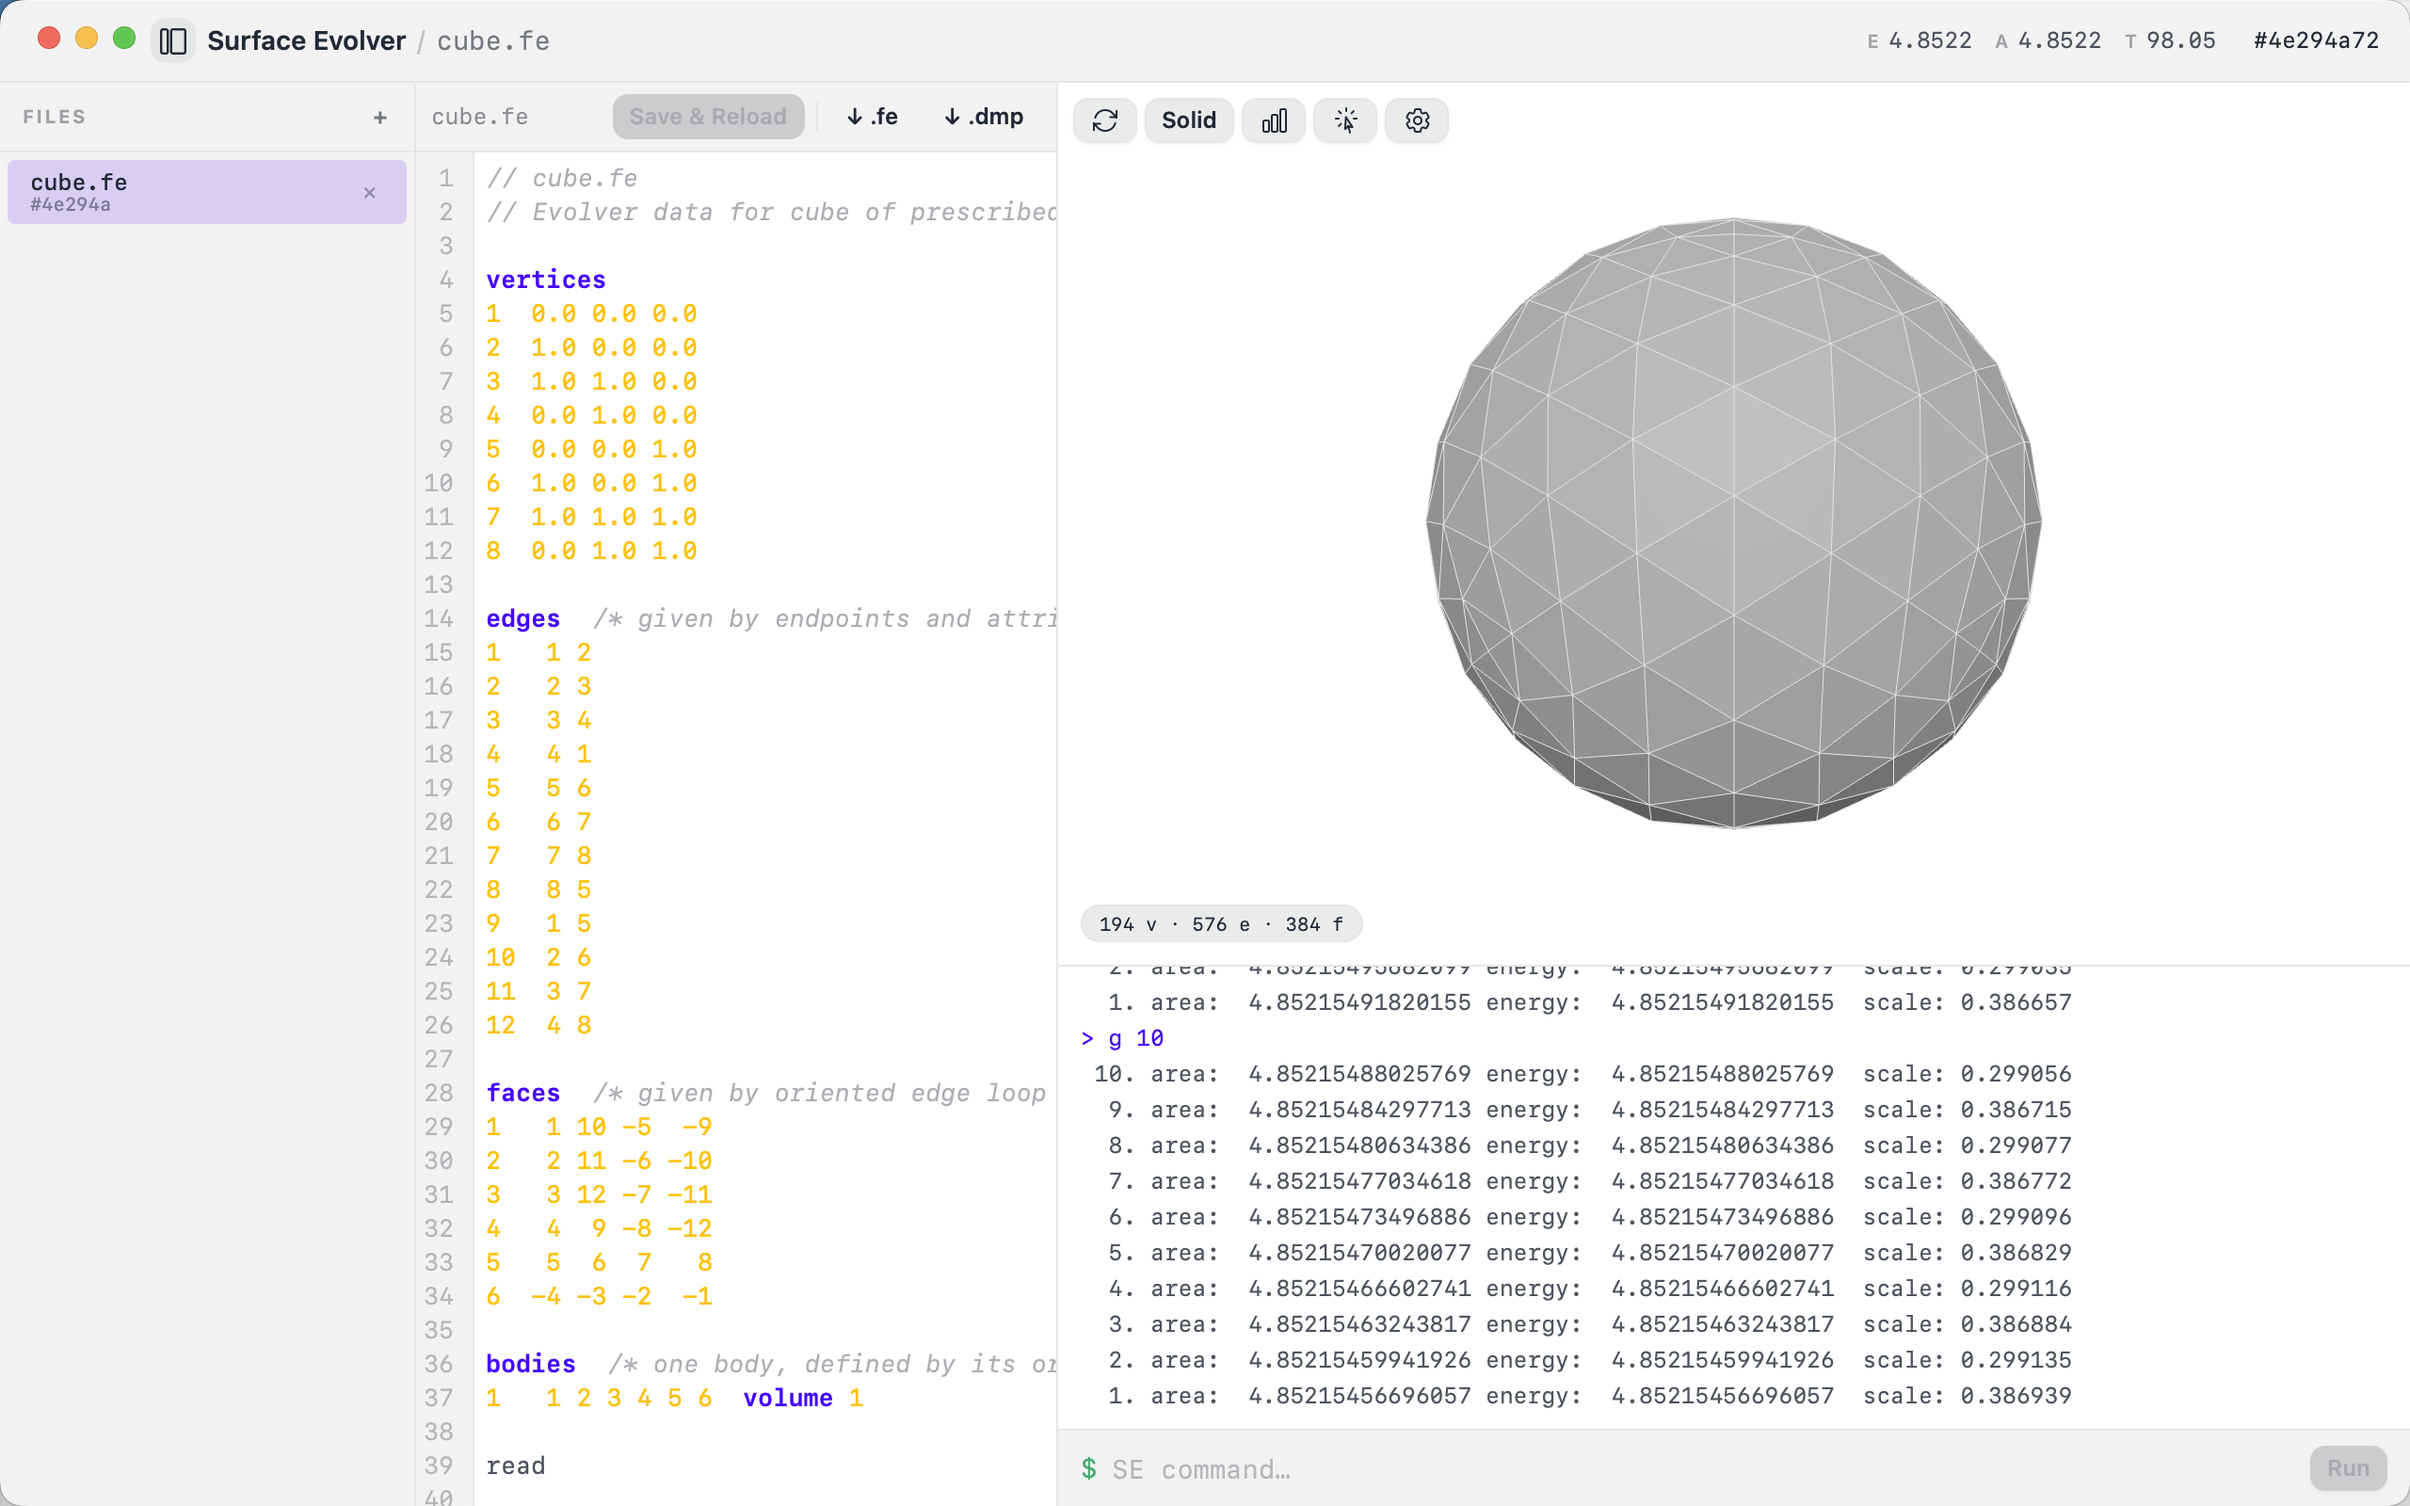
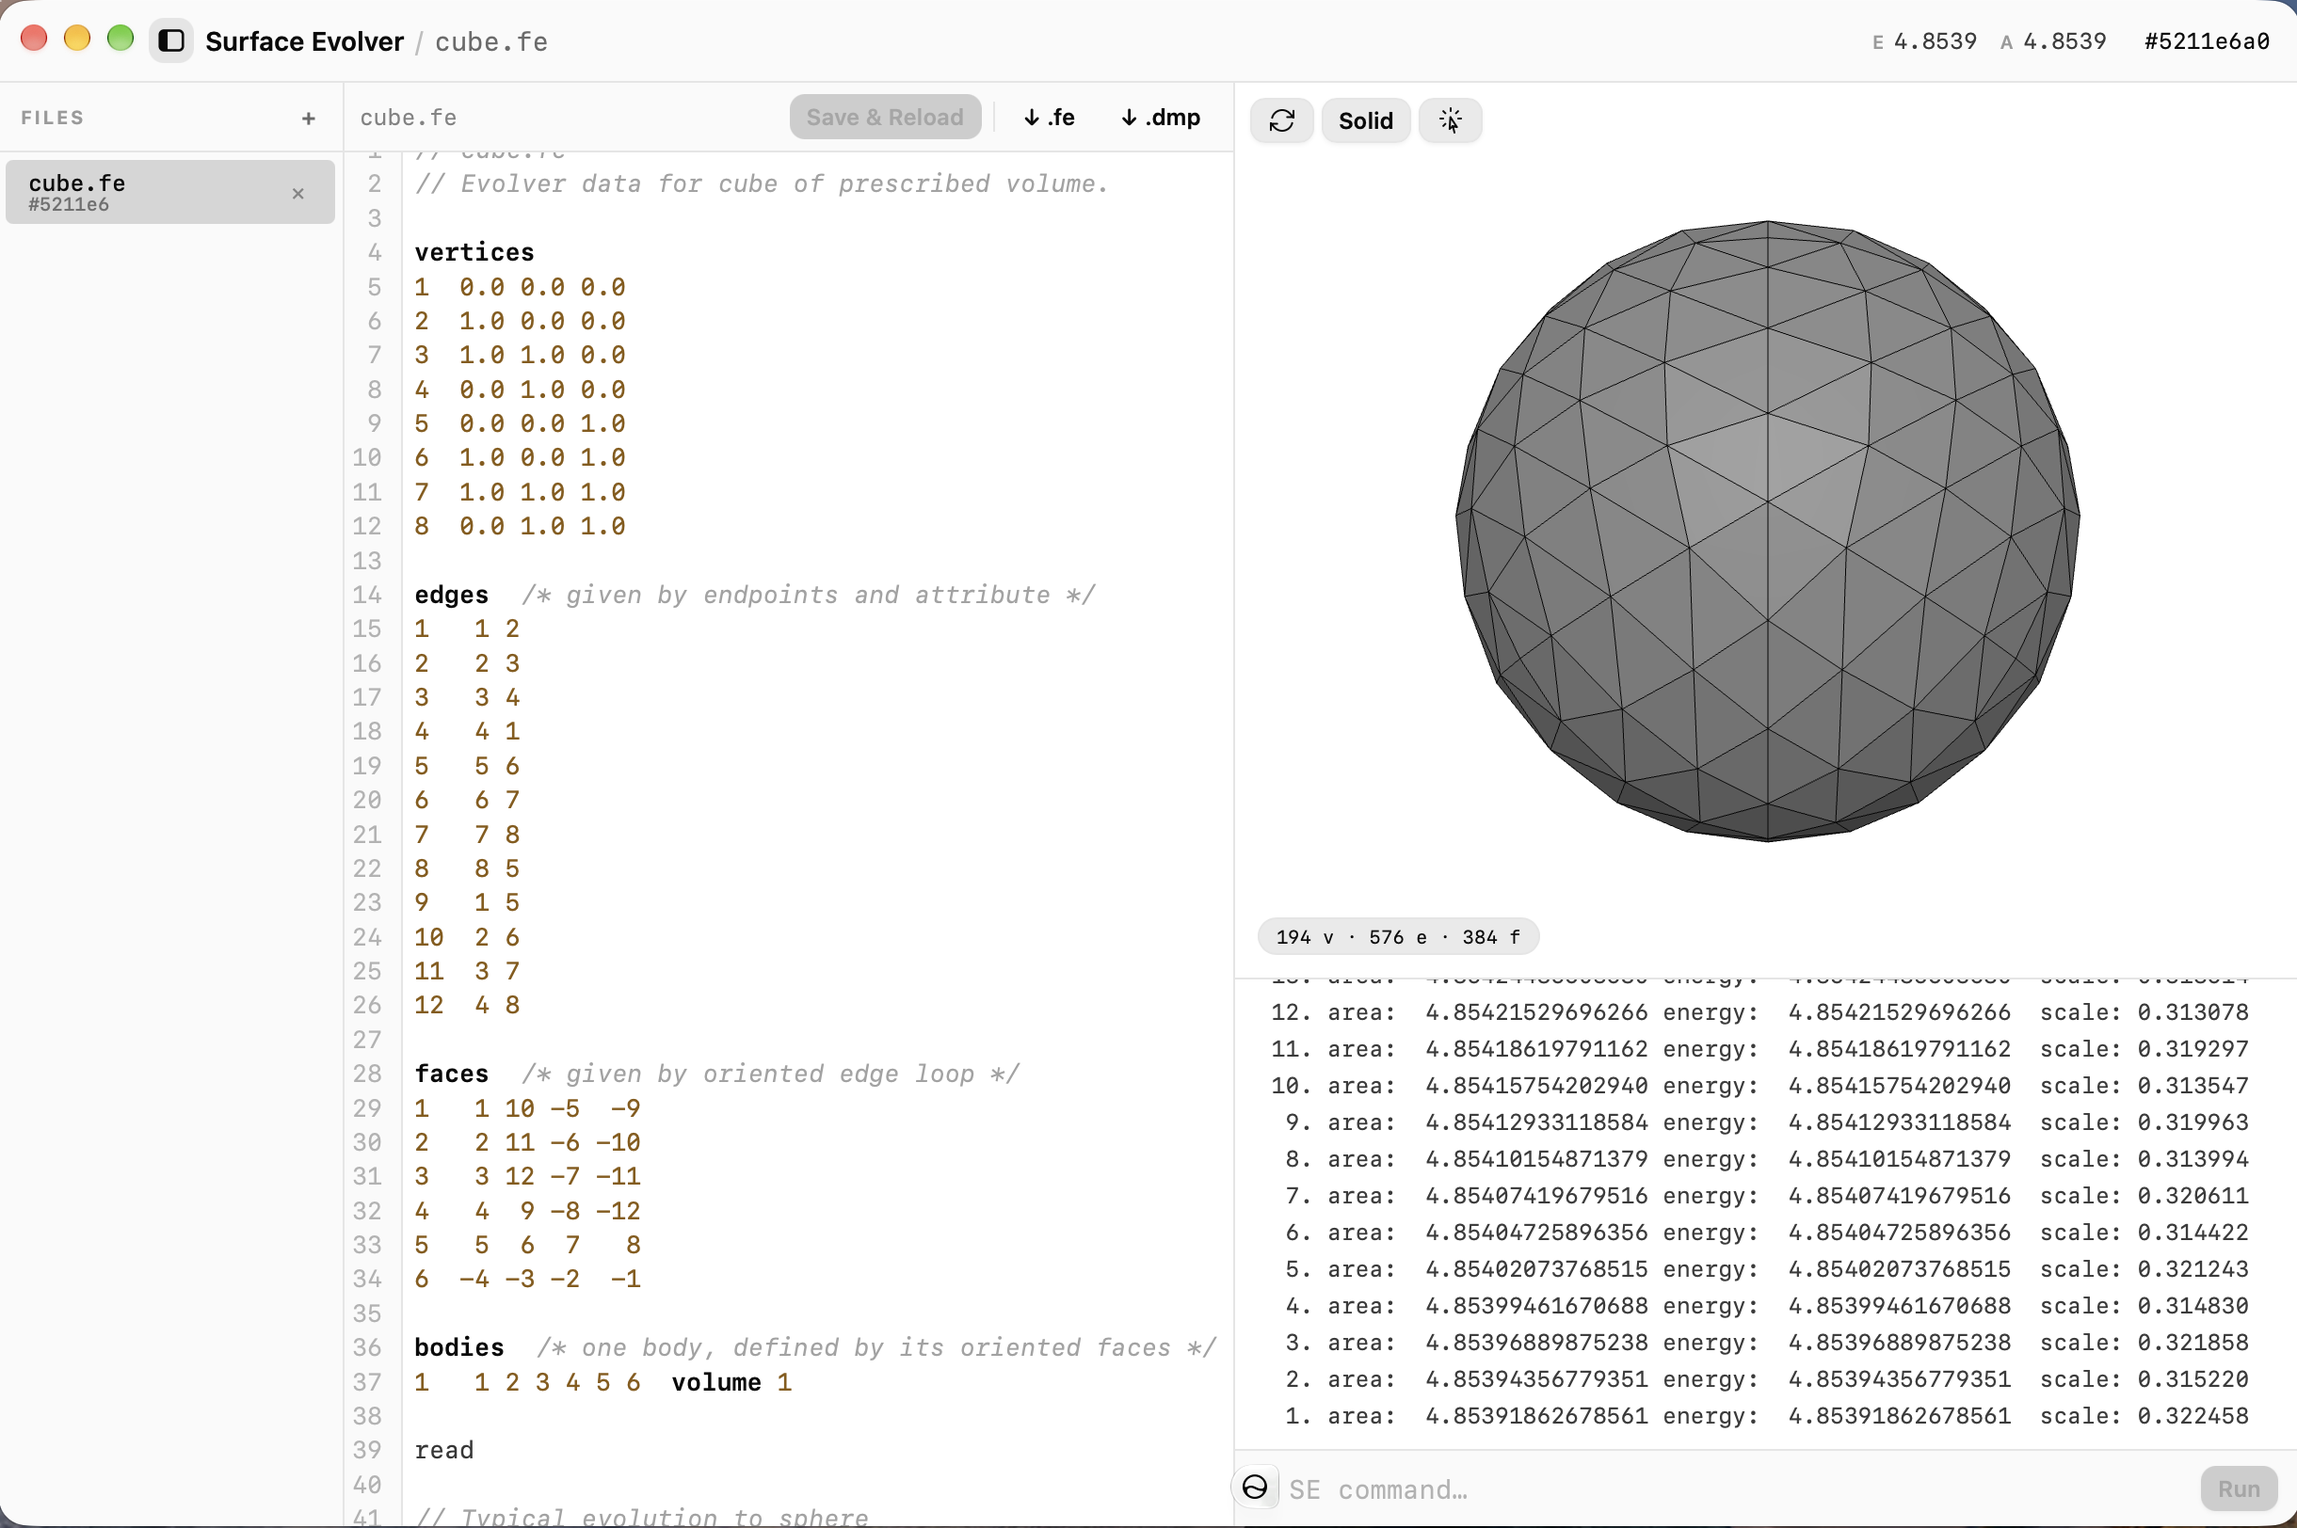
Retake hero screenshots with the neutral theme
New light and dark captures of cube.fe refined twice and evolved (194 v,
576 e, 384 f), matching the caption. They are 3:2 (2440×1624), so the
declared Image size moves from 1280×800 to 1220×812 to keep the reserved
box the right shape and avoid layout shift.

diff --git a/components/Hero.tsx b/components/Hero.tsx
@@ -63,16 +63,16 @@ export default function Hero() {
             <Image
               src="/app-screenshot-light.png"
               alt="Surface Evolver desktop app: .fe datafile editor, command log, and a cube evolved into a sphere in the 3D viewer"
-              width={1280}
-              height={800}
+              width={1220}
+              height={812}
               fetchPriority="high"
               className="shot-light w-full"
             />
             <Image
               src="/app-screenshot-dark.png"
               alt="Surface Evolver desktop app in dark mode: .fe datafile editor, command log, and a cube evolved into a sphere in the 3D viewer"
-              width={1280}
-              height={800}
+              width={1220}
+              height={812}
               fetchPriority="high"
               className="shot-dark w-full"
             />
